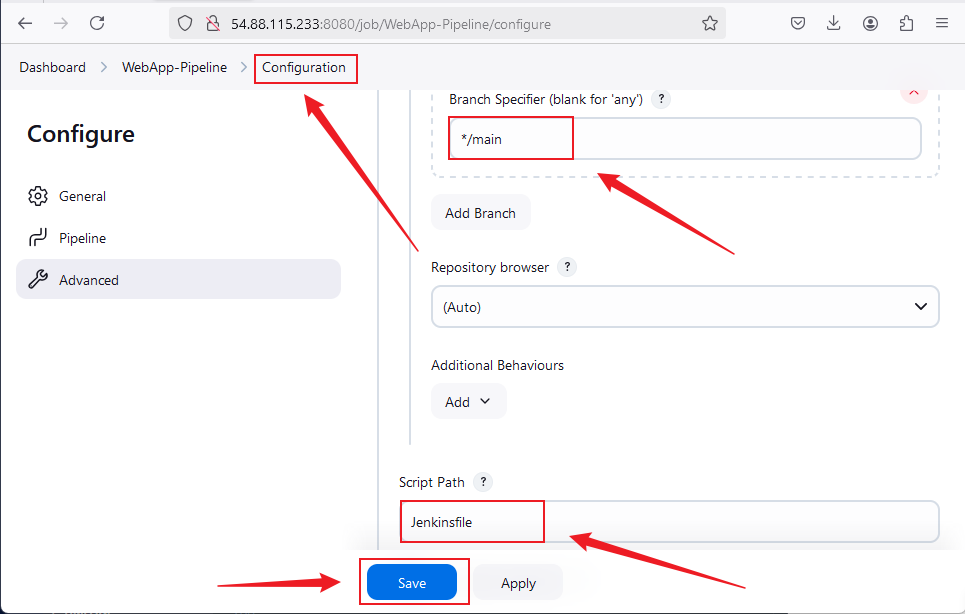
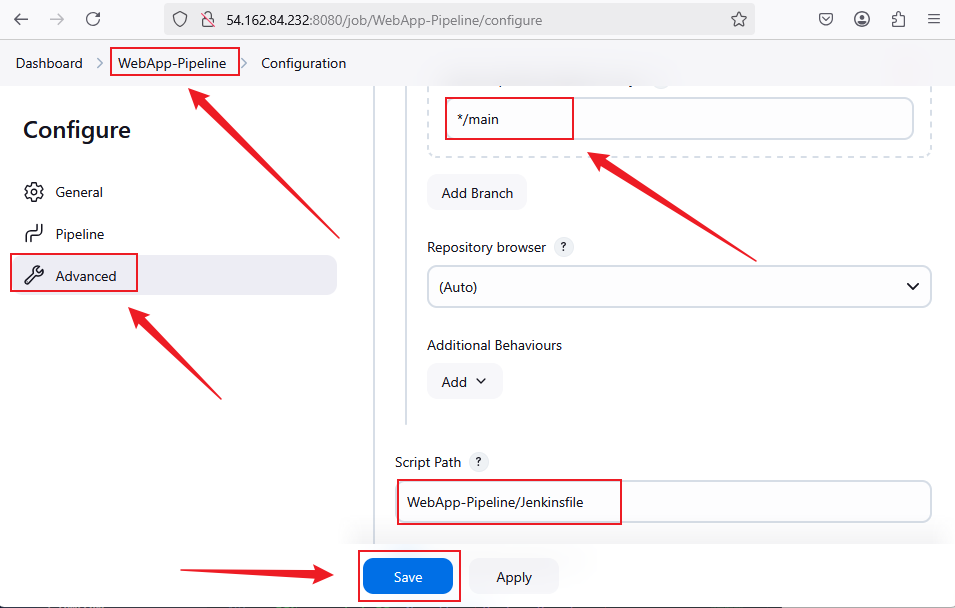
Added folder structure for Jenkins pipelines

diff --git a/README.md b/README.md
@@ -189,10 +189,11 @@ https://github.com/Holuphilix/jenkins-scm.git
 6. In **Script Path**, enter:
 
 ```sh
-Jenkinsfile
+WebApp-Pipeline/Jenkinsfile
 ```
 
-**Screenshot:** Pipeline Configuration
+**Screenshot:** Script Path: WebApp-Pipeline/Jenkinsfile
+
 ![Pipeline Job Configuration](./Images/21.Pipeline_config_advance.png)
 
 7. Click **Save**, then click **Build Now** to test.
@@ -423,7 +424,7 @@ venv/
 **Screenshot:** .gitignore Execution
 ![.gitignore Execution](./Images/25.gitignore_script.png)
 
-## **Task 5: Docker Image Creation and Push to Docker Hub**
+## **Task 6: Docker Image Creation and Push to Docker Hub**
 
 ### **Objective**
 Automate the creation of a Docker image for the web application and push it to Docker Hub using Jenkins.
@@ -510,10 +511,11 @@ https://github.com/Holuphilix/jenkins-scm.git
 7. In Script Path, enter:
 
 ```sh
-Jenkinsfile
+Docker-Pipeline/Jenkinsfile
 ```
 
-**Screenshot:**  Script Path `Jenkinsfile`
+**Screenshot:**  Script Path `Docker-Pipeline/Jenkinsfile
+`
 ![Script Path `Jenkinsfile`](./Images/32.Jenkins_scripts.png)
 
 8. Click Save.
